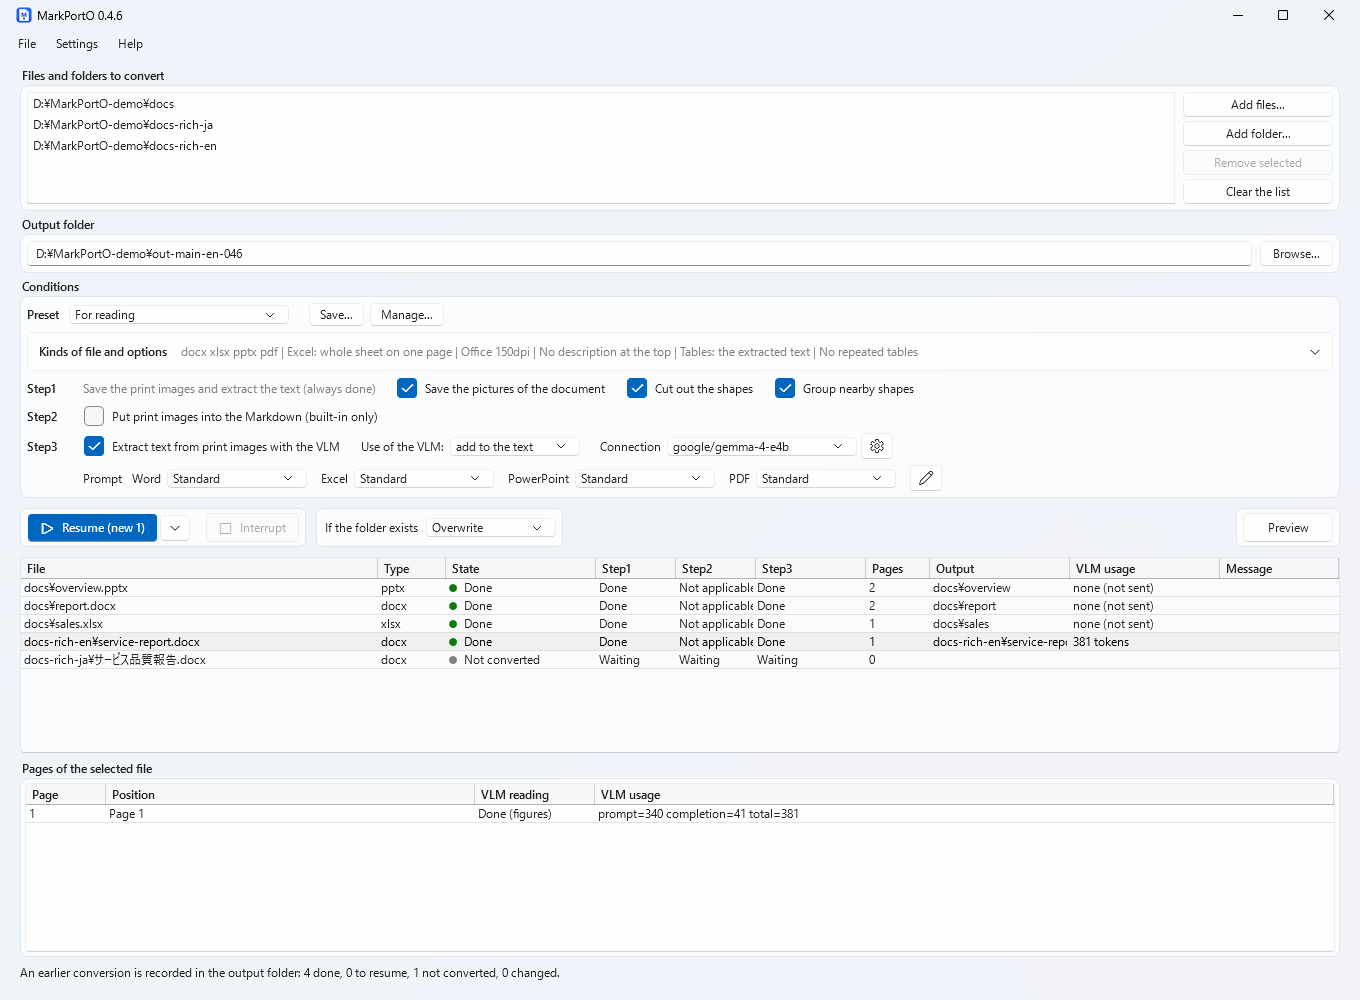
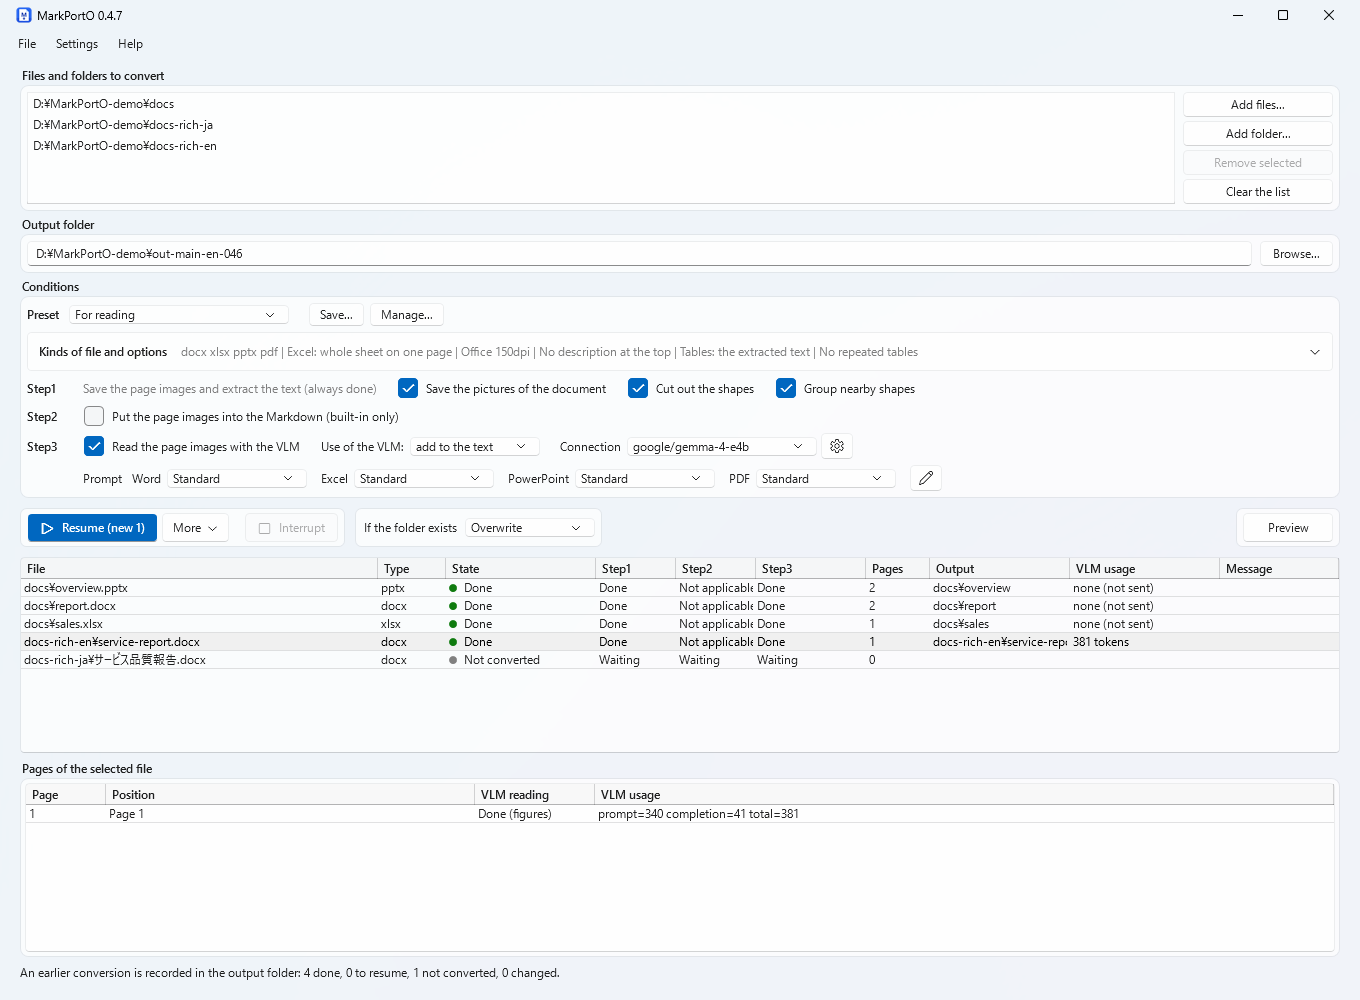
chore: 0.4.7, with the main window of now

diff --git a/README.md b/README.md
@@ -3,7 +3,7 @@
 [![License: GPL-3.0-only](https://img.shields.io/badge/license-GPL--3.0--only-blue.svg)](LICENSE)
 ![Platform: Windows 11](https://img.shields.io/badge/platform-Windows%2011-0078D4.svg)
 ![.NET 10](https://img.shields.io/badge/.NET-10-512BD4.svg)
-![Version](https://img.shields.io/badge/version-0.4.6-2ea44f.svg)
+![Version](https://img.shields.io/badge/version-0.4.7-2ea44f.svg)
 
 **English** | [日本語](README.ja.md)
 

diff --git a/README.ja.md b/README.ja.md
@@ -3,7 +3,7 @@
 [![License: GPL-3.0-only](https://img.shields.io/badge/license-GPL--3.0--only-blue.svg)](LICENSE)
 ![Platform: Windows 11](https://img.shields.io/badge/platform-Windows%2011-0078D4.svg)
 ![.NET 10](https://img.shields.io/badge/.NET-10-512BD4.svg)
-![Version](https://img.shields.io/badge/version-0.4.6-2ea44f.svg)
+![Version](https://img.shields.io/badge/version-0.4.7-2ea44f.svg)
 
 [English](README.md) | **日本語**
 
